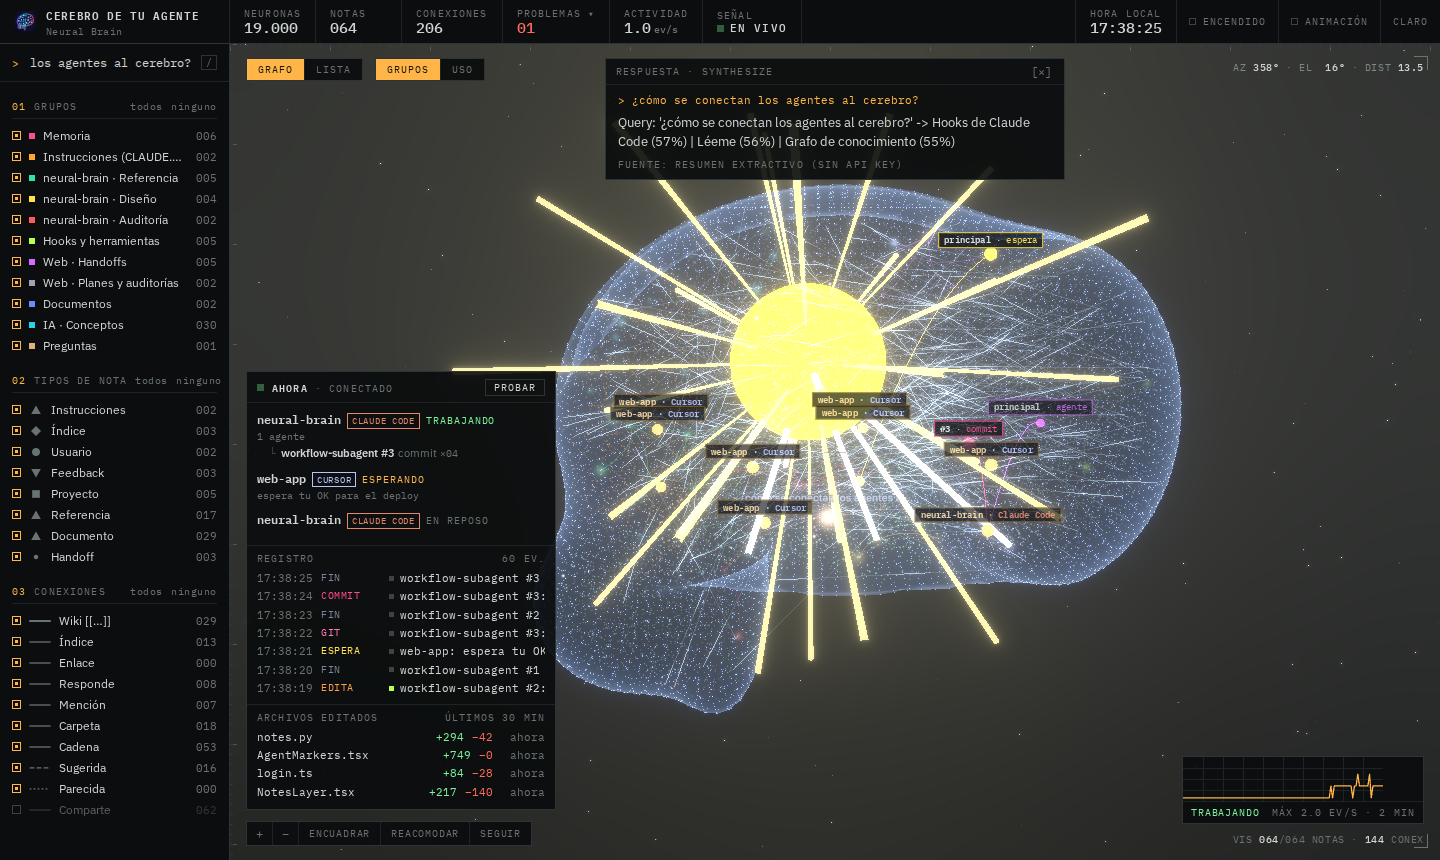
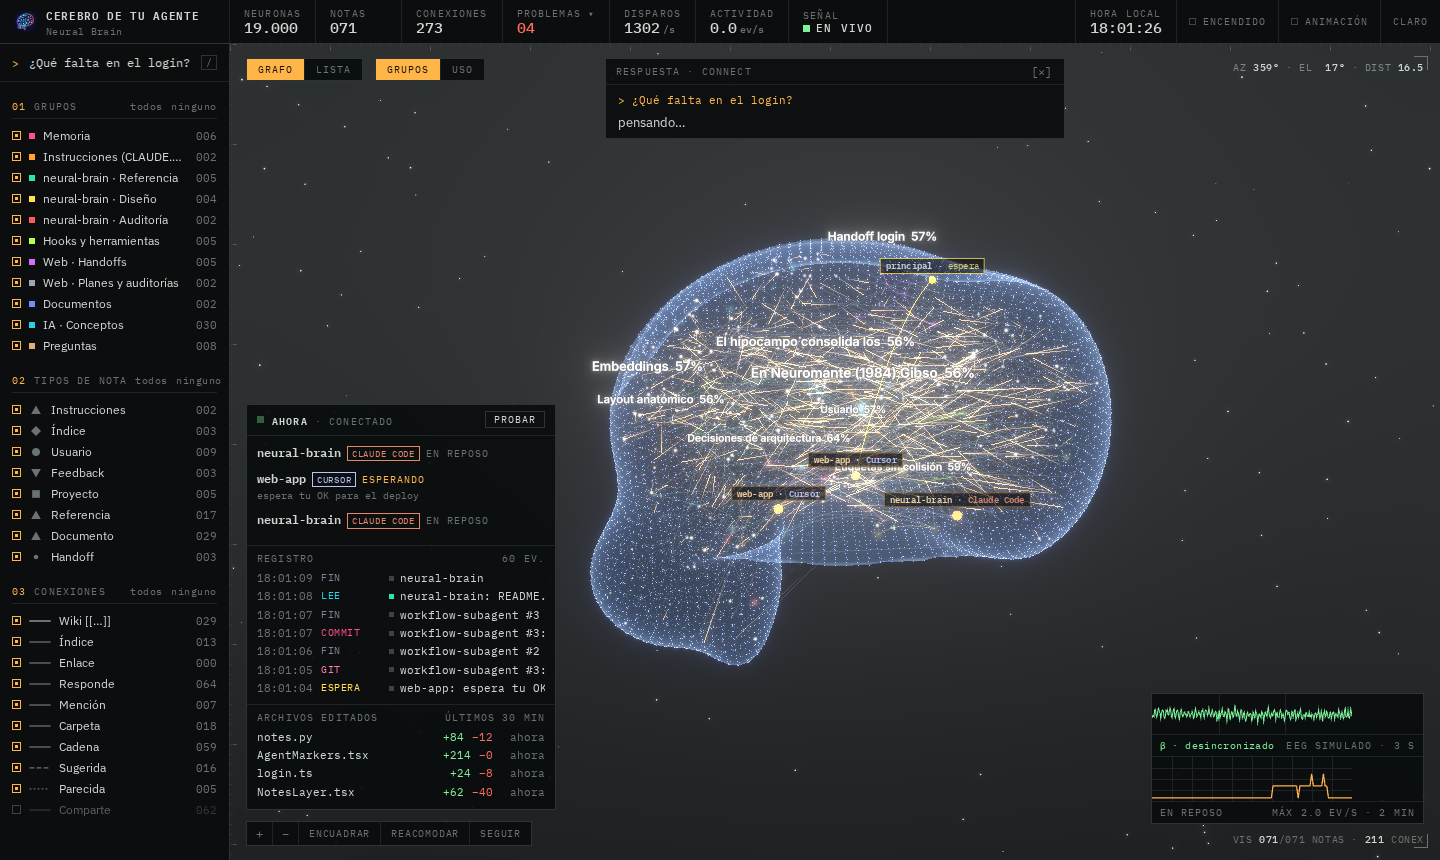
docs: README for the spiking brain and the instrument UI
New demo GIF recorded with a controlled clock (smooth at any render speed): rest with alpha EEG, two agents working, then a question travelling from the hippocampus to the frontal lobe. Refreshed screenshots plus a close-up of the action potentials. Text updated: how the network works, the question as neural traffic, the instrument UI, the network in the architecture diagram, the new controls and readouts; react-spring is gone.

The simulator now also resets if the render clock jumps backwards (the EEG could stall in that case).

Claude-Session: https://claude.ai/code/session_01FtnkjFZqhvsLejwne1Sczp

diff --git a/frontend/src/sim/neuralSim.ts b/frontend/src/sim/neuralSim.ts
@@ -54,7 +54,7 @@ export const PARAMS = {
 
 const SLOT = 0.01;          // time wheel resolution (s)
 const NSLOT = 512;          // horizon 5.12 s, longer than any delay
-const MAX_CATCH_UP = 1;     // after a hidden tab, skip ahead instead of replaying
+const MAX_CATCH_UP = 1;     // after a hidden tab (or a clock that jumped back), skip instead of replaying
 const CELL = 0.6;
 const EEG_HZ = 100;
 const EEG_LEN = 512;
@@ -253,7 +253,7 @@ class NeuralSim {
     this.arousal = arousalLevel;
     this.fired.length = 0;
     if (!this.started) { this.started = true; this.now = t; this.slotTime = t; this.eegT = t; return; }
-    if (t - this.now > MAX_CATCH_UP) {
+    if (t - this.now > MAX_CATCH_UP || t < this.now) {
       this.clearWheel();
       this.now = t; this.slotTime = t; this.eegT = t;
       return;
@@ -406,7 +406,7 @@ class NeuralSim {
     const a = this.arousal;
     const rates = this.slotRates;
     const dt = 1 / EEG_HZ;
-    this.eegCarry += t - this.eegT;
+    this.eegCarry = Math.max(0, this.eegCarry + t - this.eegT);
     this.eegT = t;
     let ri = 0;
     while (this.eegCarry >= dt) {

diff --git a/README.md b/README.md
@@ -26,9 +26,9 @@ Cuando **Claude Code**, **Cursor**, **Codex** o cualquier otro agente trabaja, l
 
 <br>
 
-<img src="docs/img/demo.gif" alt="Dos agentes (Claude Code y Cursor) trabajando: el cerebro se ilumina donde tocan" width="880">
+<img src="docs/img/demo.gif" alt="El cerebro en reposo, dos agentes trabajando y una pregunta recorriéndolo como impulsos nerviosos" width="880">
 
-<sub>Dos agentes trabajando a la vez: Claude Code en <code>neural-brain</code> y Cursor en <code>web-app</code>. Las neuronas se encienden alrededor de cada nota que tocan.</sub>
+<sub>En reposo (EEG en alfa), luego Claude Code y Cursor trabajando a la vez y al final una pregunta: los impulsos recorren los axones desde el hipocampo hasta el lóbulo frontal y el alfa se bloquea.</sub>
 
 </div>
 
@@ -36,14 +36,14 @@ Cuando **Claude Code**, **Cursor**, **Codex** o cualquier otro agente trabaja, l
 
 ## Qué es
 
-**Neural Brain** convierte la memoria de tu agente de código en algo que puedes **ver**. Cada nota (instrucciones, `CLAUDE.md`, decisiones, handoffs, documentación…) es una neurona luciérnaga dentro de un cerebro anatómico. Las notas se conectan entre sí y se iluminan cuando un agente las lee, las busca o las edita. Pregúntale algo y verás cómo recorre su memoria para responderte.
+**Neural Brain** convierte la memoria de tu agente de código en algo que puedes **ver**. Cada nota (instrucciones, `CLAUDE.md`, decisiones, handoffs, documentación…) es una neurona luciérnaga dentro de un cerebro anatómico. Las notas se conectan entre sí y se iluminan cuando un agente las lee, las busca o las edita. Por dentro funciona como un cerebro de verdad: una red de 19.000 neuronas que disparan, se propagan por sus sinapsis y se calman solas. Pregúntale algo y verás cómo recorre su memoria para responderte.
 
 <table>
 <tr>
 <td width="50%" valign="top">
 
 ### 🧠 Un cerebro de verdad
-19.000 neuronas como polvo luminoso dentro de un cerebro anatómico en vista lateral: frontal, parietal, temporal, occipital, hipocampo y cerebelo. Tiene piel punteada de corteza, fibras internas, estrellas y bloom, todo en WebGL.
+19.000 neuronas como polvo luminoso dentro de un cerebro anatómico en vista lateral: frontal, parietal, temporal, occipital, hipocampo y cerebelo, unidas por 240 tractos de sustancia blanca. Tiene piel punteada de corteza, estrellas y bloom, todo en WebGL.
 
 ### ⚡ Funciona como uno
 Las 19.000 neuronas forman una **red de impulsos**: cada una integra lo que le llega, dispara al cruzar el umbral, queda refractaria un momento y manda el impulso por sus sinapsis, con el retardo de la conducción. Ves los **potenciales de acción viajando por los axones** y por las fibras entre regiones, y una inhibición global evita que la actividad se desborde.
@@ -63,7 +63,10 @@ El backend detecta **10 tipos de conexión**: `[[wiki]]`, enlaces, índices, res
 Hooks para **Claude Code** (con subagentes) y **Cursor**, `notify` de **Codex** y un CLI/HTTP genérico para el resto. Cada sesión muestra su agente, sus subagentes (`#1 · busca`, `#2 · compila`…), las acciones y los archivos editados con **+/−** líneas.
 
 ### 🔎 Pregúntale
-Escribe en el buscador y pulsa Enter. El cerebro busca por embeddings (ChromaDB) en cuatro fases animadas (INPUT → SEARCH → CONNECT → SYNTHESIZE). Con `ANTHROPIC_API_KEY`, Claude redacta la respuesta. Todo se versiona en **Git**.
+Escribe en el buscador y pulsa Enter. El cerebro busca por embeddings (ChromaDB) en cuatro fases (INPUT → SEARCH → CONNECT → SYNTHESIZE) que ves como tráfico neuronal: leer, recuperar del hipocampo, asociar y componer en el frontal. Con `ANTHROPIC_API_KEY`, Claude redacta la respuesta. Todo se versiona en **Git**.
+
+### 📟 Un instrumento, no un dashboard
+La interfaz se lee como un monitor de laboratorio: lecturas numéricas (neuronas, disparos por segundo, ev/s, señal), osciloscopio con el **EEG simulado** y la actividad de los agentes, registro con hora, reglas y lectura de cámara en el visor. Tipografía IBM Plex, un solo acento ámbar y tema claro de papel.
 
 </td>
 </tr>
@@ -73,12 +76,15 @@ Escribe en el buscador y pulsa Enter. El cerebro busca por embeddings (ChromaDB)
 
 <table>
 <tr>
-<td width="50%"><img src="docs/img/hero.png" alt="Agentes trabajando"><br><sub><b>Trabajando.</b> Panel <i>Ahora</i> con cada sesión y su agente, subagentes, acciones y archivos editados en la última media hora.</sub></td>
-<td width="50%"><img src="docs/img/rest.png" alt="Cerebro en reposo"><br><sub><b>En reposo.</b> Sin actividad, el cerebro queda en penumbra y solo se ve la silueta.</sub></td>
+<td width="50%"><img src="docs/img/hero.png" alt="Agentes trabajando"><br><sub><b>Trabajando.</b> Cada acción recluta su área y la actividad se propaga. Panel <i>Ahora</i> con sesiones, subagentes, acciones y archivos editados; el EEG pasa a beta.</sub></td>
+<td width="50%"><img src="docs/img/rest.png" alt="Cerebro en reposo"><br><sub><b>En reposo.</b> Penumbra, unos pocos disparos espontáneos que siguen una onda lenta y el EEG en ritmo alfa.</sub></td>
+</tr>
+<tr>
+<td colspan="2"><img src="docs/img/spikes.png" alt="Potenciales de acción de cerca"><br><sub><b>De cerca.</b> Cada trazo cálido es un potencial de acción viajando por un axón hasta su sinapsis; los destellos son neuronas disparando.</sub></td>
 </tr>
 <tr>
 <td width="50%"><img src="docs/img/note.png" alt="Ficha de una nota"><br><sub><b>Una nota.</b> Clic en una luciérnaga: su grupo, tipo, texto, cuántas veces la usaron los agentes y todas sus conexiones.</sub></td>
-<td width="50%"><img src="docs/img/connect.png" alt="Pregunta en fase CONNECT"><br><sub><b>Pensando.</b> Una pregunta en fase CONNECT: los rayos llegan a las notas que responden, con su porcentaje de similitud.</sub></td>
+<td width="50%"><img src="docs/img/connect.png" alt="Pregunta en fase CONNECT"><br><sub><b>Pensando.</b> Una pregunta en fase CONNECT: las memorias que responden (con su % de similitud) se excitan entre sí antes de converger en el frontal.</sub></td>
 </tr>
 <tr>
 <td colspan="2"><img src="docs/img/list.png" alt="Vista Lista"><br><sub><b>Lista.</b> Todas las notas en una tabla ordenable por conexiones, uso o fecha, con los mismos filtros de grupo, tipo y búsqueda.</sub></td>
@@ -103,16 +109,18 @@ flowchart LR
     end
     subgraph C["Frontend · React + WebGL"]
         D3["D3 force<br/>acomoda las notas"] --> GL["WebGL<br/>19k neuronas · luciérnagas<br/>conexiones · agentes"]
+        SIM["Red de impulsos<br/>disparos · sinapsis · EEG"] --> GL
     end
     CC & CU & CX --> H
-    ACT & NOTES -- "SSE en vivo" --> D3
+    ACT & NOTES -- "SSE en vivo" --> D3 & SIM
 ```
 
 | Pieza | Qué hace |
 |---|---|
 | **Python** | Lee las notas y la memoria, las conecta entre sí y arma el cerebro (SDF anatómico, 19k neuronas, fibras) en un segundo. |
 | **JavaScript + D3** | Acomoda cada nota como una neurona dentro del volumen y dibuja sus conexiones. |
-| **WebGL** | La tarjeta gráfica dibuja las 19.000 neuronas, las fibras, la luz y las estrellas en una llamada por capa. |
+| **Red de impulsos** | Simula las 19.000 neuronas en el navegador: umbral, periodo refractario, sinapsis con retardo, tractos entre regiones, inhibición y el EEG. Menos de 1 ms por paso. |
+| **WebGL** | La tarjeta gráfica dibuja las 19.000 neuronas, los impulsos, las fibras, la luz y las estrellas en una llamada por capa. |
 | **Hooks** | Cada cosa que hace el agente (leer, buscar, editar, lanzar subagentes, compilar, probar, hacer commit) se anota al instante. |
 | **SSE** | Un servidor propio en vivo que lo manda todo al cerebro en tiempo real: por eso lo ves pensar mientras trabaja. |
 | **Git** | Cada cambio del grafo queda guardado paso a paso, con historial y restauración. |
@@ -222,9 +230,12 @@ Acciones: `lee` `busca` `edita` `crea` `git` `commit` `compila` `prueba` `script
 | Grupos · Tipos · Conexiones | barra lateral | Mostrar u ocultar por grupo, tipo de nota o tipo de conexión (`todos` / `ninguno`) |
 | Grafo · Lista | arriba a la izquierda | Cerebro 3D o tabla ordenable de notas |
 | Grupos · Uso | arriba a la izquierda | Color de las notas por grupo o por cuánto las usan los agentes |
-| Siempre encendido | barra superior | Apagado (por defecto): reposa a oscuras y se ilumina al pensar |
-| Animaciones | barra superior · `A` | Rotación, parpadeo de las luciérnagas y pulsos por las conexiones |
-| problemas | barra superior | Enlaces rotos, notas sin conexiones y duplicados (clic → la nota) |
+| Encendido | barra superior | Apagado (por defecto): reposa a oscuras y se ilumina al pensar; encendido: siempre despierto |
+| Animación | barra superior · `A` | Rotación, parpadeo de las luciérnagas y pulsos por las conexiones |
+| Claro · Oscuro | barra superior | Tema de la interfaz |
+| Problemas | lectura de la barra superior | Enlaces rotos, notas sin conexiones y duplicados (clic → la nota) |
+| Disparos · Actividad · Señal | barra superior | Disparos por segundo de la red, eventos de agentes por segundo y estado de la conexión |
+| EEG · actividad | abajo a la derecha | EEG simulado (α en reposo, β al pensar) y eventos de los agentes en los últimos 2 min |
 | + · − · Encuadrar · Reacomodar · Seguir | abajo · `F` | Zoom, encuadrar las notas, recalcular el layout D3, cámara que sigue al agente activo |
 | Probar | panel *Ahora* | Simula a dos agentes (Claude Code y Cursor) trabajando |
 | Vista inicial | `H` · `Esc` suelta la nota | |
@@ -294,19 +305,20 @@ cd backend && python brain_layout.py --neurons 19000 --out brain_layout.json \
 - Fuente Inter incluida en el repo, con un error boundary para que el texto 3D no deje la escena en negro.
 - `query_id` coherente entre la respuesta y los eventos, y 409 si ya hay una pregunta en curso.
 - Respuesta de Claude en SYNTHESIZE (el spec no usaba LLM).
-- Versiones: vite 8, three 0.186, react-spring 10 (compatible con React 19).
+- Las fases de la pregunta se dibujan como impulsos de la red, sin esferas ni rayos.
+- Versiones: vite 8, three 0.186.
 
 ### Problemas comunes
 
 - **La primera carga tarda**: el backend siembra 19k neuronas y descarga el modelo de embeddings.
-- **FPS bajos**: desactiva *Animaciones* (`A`) y oculta las conexiones *Comparte* y *Cadena*. Necesita WebGL2 con GPU.
+- **FPS bajos**: desactiva *Animación* (`A`) y oculta las conexiones *Comparte* y *Cadena*. Necesita WebGL2 con GPU. La red de impulsos cuesta menos de 1 ms por fotograma.
 - **El repo del grafo crece**: cada snapshot son unos 8 MB de JSON, que Git comprime. `make clean` empieza de cero.
 
 </details>
 
 ## Marca
 
-El logo está en [`docs/brand/`](docs/brand): `logo-dark.svg` y `logo-light.svg` (horizontal, para fondo oscuro y claro) y `logo-mark.svg` (el símbolo, también usado como favicon). Es un cerebro de perfil hecho de neuronas conectadas, en degradado violeta, cian y rosa, los colores de la app.
+El logo está en [`docs/brand/`](docs/brand): `logo-dark.svg` y `logo-light.svg` (horizontal, para fondo oscuro y claro) y `logo-mark.svg` (el símbolo, también usado como favicon). Es un cerebro de perfil hecho de neuronas conectadas, en degradado violeta, cian y rosa.
 
 ## Licencia
 
